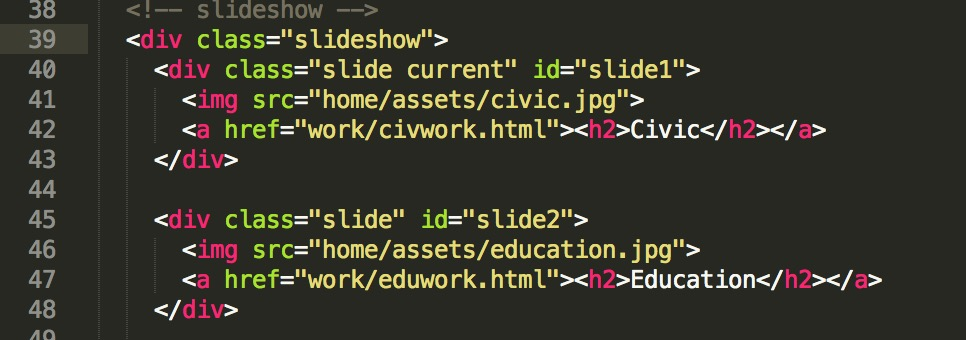
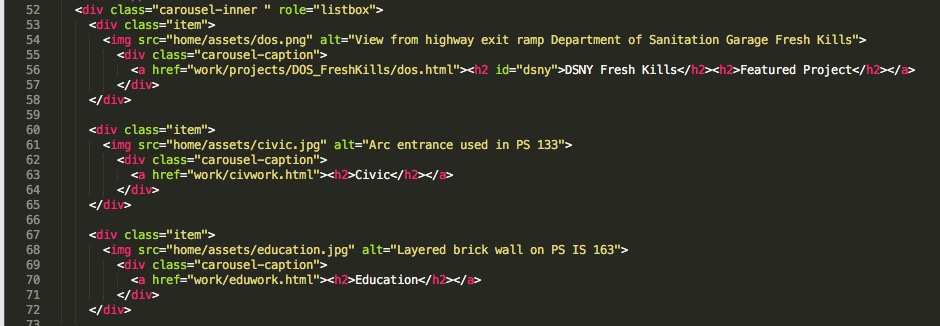
added new photo

Changed region(s): [[0.0, 0.0, 0.9872, 1.0], [0.0926, 0.7055, 0.9255, 0.9816]]

diff --git a/index.html b/index.html
@@ -22,9 +22,9 @@
 <body>
 
   <ul class="topnav" id="myTopnav">
-    <li><a class="sblm" href="index.html">SBLM</a></li>
-    <li><a class="link" id="work" href="work/work.html">Work</a></li>
-    <li><a class="link" id="contact" href="contact/contact.html">Contact</a></li>
+    <li><a class="sblm" href="index.html" style="text-decoration: none;">SBLM</a></li>
+    <li><a class="link" id="work" href="work/work.html" style="text-decoration: none;">Work</a></li>
+    <li><a class="link" id="contact" href="contact/contact.html" style="text-decoration: none;">Contact</a></li>
     <li class="icon">
       <span class="burger">&#9776;</span>
     </li>
@@ -50,6 +50,13 @@
 
   <!-- Wrapper for slides -->
   <div class="carousel-inner " role="listbox">
+    <div class="item">
+      <img src="home/assets/dos.png" alt="View from highway exit ramp Department of Sanitation Garage Fresh Kills">
+        <div class="carousel-caption">
+          <a href="work/projects/DOS_FreshKills/dos.html"><h2 id="dsny">DSNY Fresh Kills</h2><h2>Featured Project</h2></a>
+        </div>
+    </div>
+
     <div class="item">
       <img src="home/assets/civic.jpg" alt="Arc entrance used in PS 133">
         <div class="carousel-caption">
@@ -82,13 +89,6 @@
       <img src="home/assets/retail.jpg" alt="Outer facade for Home Depot Jersey City">
         <div class="carousel-caption">
           <a href="work/retwork.html"><h2>Retail / Commercial</h2></a>
-        </div>
-    </div>
-
-    <div class="item">
-      <img src="home/assets/dos.png" alt="View from highway exit ramp Department of Sanitation Garage Fresh Kills">
-        <div class="carousel-caption">
-          <a href="work/projects/DOS_FreshKills/dos.html"><h2>Featured Project</h2></a>
         </div>
     </div>
 

diff --git a/home/photo.js b/home/photo.js
@@ -2,12 +2,17 @@ $(document).ready(function(){
   var $item = $('.carousel .item');
   var $wHeight = $(window).height();
 
+  //the height of each slide becomes the width of the screen
+  //ie the images are now full screen
   $item.height($wHeight); 
   $item.addClass('full-screen');
 
+  //number of slides become the amount of items that have the class item
   var $numberofSlides = $('.item').length;
   var $currentSlide = Math.floor((Math.random() * $numberofSlides));
+  //randomizes the current slide.
 
+  //Bootstrap version of clicking on the circle to direct to associated slide
   $('.carousel-indicators li').each(function(){
     var $slideValue = $(this).attr('data-slide-to');
     if($currentSlide == $slideValue) {
@@ -19,6 +24,7 @@ $(document).ready(function(){
     }
   });
 
+  //This makes sure the image fits the screen, and adding a background color
   $('.carousel img').each(function() {
     var $src = $(this).attr('src');
     var $color = $(this).attr('data-color');
@@ -29,11 +35,13 @@ $(document).ready(function(){
     $(this).remove();
   });
 
+  //if the window resizes, the image will still have the height
   $(window).on('resize', function (){
     $wHeight = $(window).height();
     $item.height($wHeight);
   });
 
+  //each image will stay for 4 seconds
   $('.carousel').carousel({
     interval: 4000,
     pause: "false"

diff --git a/home/home.css b/home/home.css
@@ -42,7 +42,7 @@ body{
 /* The navigation links inside the overlay */
 .overlay a {
   padding: 30px;
-  text-decoration: none;
+  text-decoration: none !important;
   font-size: 36px;
   color: red;
   display: block; /* Display block instead of inline */

diff --git a/home/photo.css b/home/photo.css
@@ -2,6 +2,15 @@ body{
   font-family: 'Roboto', sans-serif; 
 }
 
+.link{
+  text-decoration: none;
+}
+
+#dsny{
+  top: -93.5px;
+  padding: 18.5px 18.5px 18.5px 18.5px;
+}
+
 h2{
   color:white;
   position: absolute;
